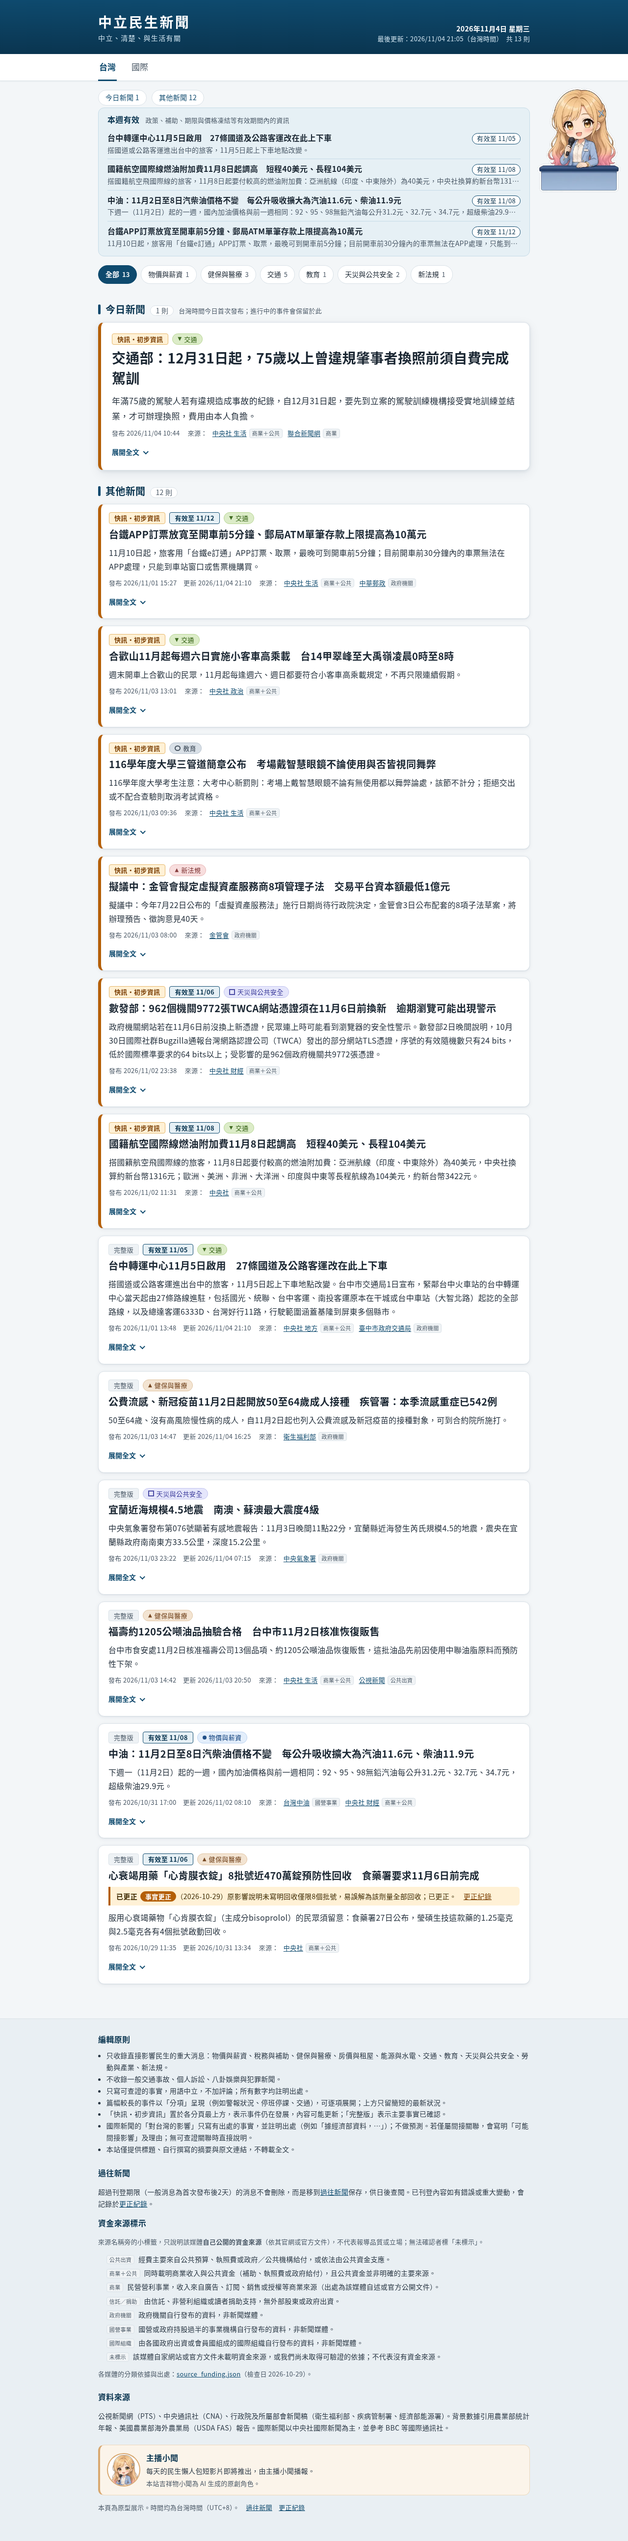
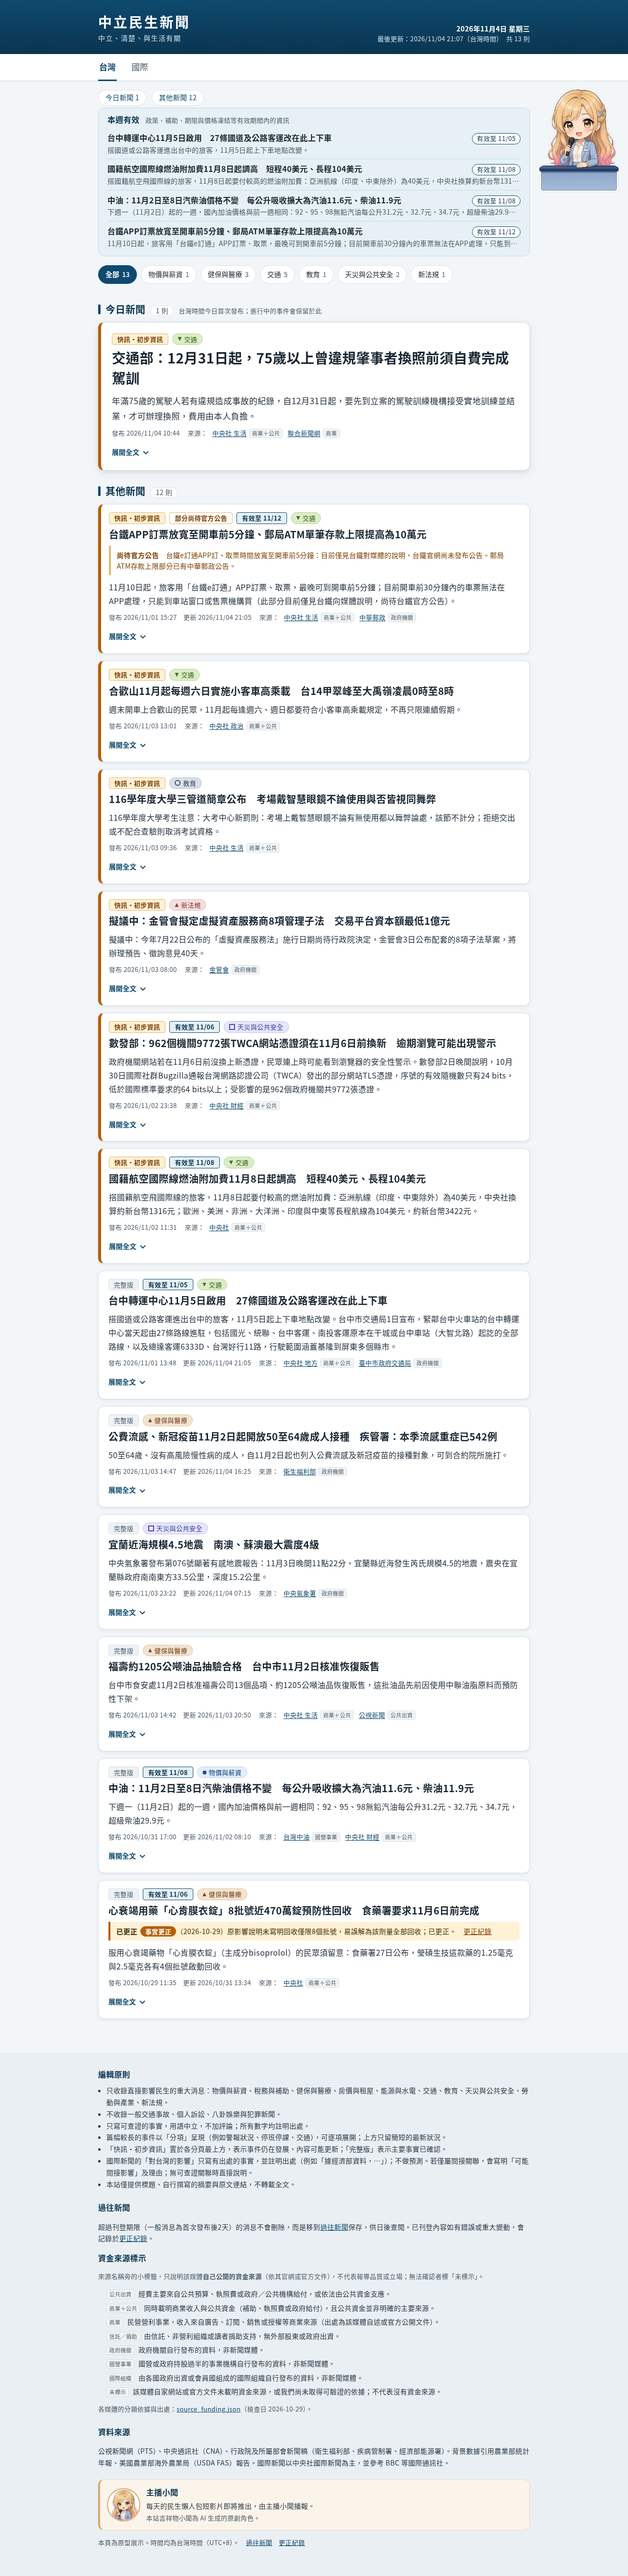
台鐵APP/郵局ATM快訊：標示台鐵部分尚待官方公告（pending_official），前端與規則支援部分確認

diff --git a/common.js b/common.js
@@ -183,8 +183,10 @@ window.NN = (function(){
   function pendingOfficial(i){
     const t = Date.parse(i.first_published || i.published || "");
     if(!t || Date.now() - t <= 3*24*3600*1000) return false;
+    if((i.pending_official || []).length) return true; // partially confirmed: listed parts still lack an official announcement
     return !(i.sources || []).some(s => s && isOfficialUrl(s.url));
   }
+  function pendingParts(i){ return (i.pending_official || []).filter(x => typeof x === "string" && x.trim()); }
 
   // Collapsible news card. Collapsed: badges, chip, title, 已更正 note, teaser, sources.
   // Expanded (button, aria-expanded): rest of summary, 影響誰/什麼/何時, 對台灣的影響, sections, full source list.
@@ -201,13 +203,14 @@ window.NN = (function(){
         <article class="${cls}" id="${esc(i.id)}">
           <div class="badges">
             <span class="badge ${breaking ? "prelim" : "full"}">${esc(i.status)}</span>
-            ${awaitOfficial ? `<span class="badge await">尚待官方公告</span>` : ""}
+            ${awaitOfficial ? `<span class="badge await">${pendingParts(i).length ? "部分尚待官方公告" : "尚待官方公告"}</span>` : ""}
             ${live ? `<span class="badge live">進行中</span>` : ""}
             ${i.valid_until && validLabel(i) ? `<span class="badge valid">${esc(validLabel(i))}</span>` : ""}
             ${o.showCat === false ? "" : chip(i.category)}
           </div>
           <h3>${esc(i.title)}</h3>
           ${i.corrected ? `<p class="corrected-note ${corrKind(i.corrected.type)}"><strong>已更正</strong>${corrTag(i.corrected.type)}（${esc(i.corrected.date)}）${esc(i.corrected.note)}　<a href="corrections.html">更正紀錄</a></p>` : ""}
+          ${awaitOfficial && pendingParts(i).length ? `<p class="await-note"><strong>尚待官方公告</strong>　${pendingParts(i).map(esc).join("；")}</p>` : ""}
           <p class="summary teaser">${esc(head)}</p>
           <div class="card-meta">
             <span class="when-line">發布 ${fmt(first(i))}${i.updated ? `　更新 ${fmt(i.updated)}` : ""}</span>

diff --git a/style.css b/style.css
@@ -294,3 +294,4 @@ body[data-mascot="pending"] .mascot-head,body[data-mascot="alert"] .mascot-head{
   .mascot-head{display:none}
 }
 body[data-mascot="pending"] .mascot-side,body[data-mascot="alert"] .mascot-side{display:none}
+.await-note{margin:0 0 10px;padding:8px 12px;border-left:4px solid #e6b768;background:#fff;border-radius:0 6px 6px 0;font-size:var(--fs-sm);line-height:1.6;color:var(--amber-ink)}

diff --git a/AUTOMATION.md b/AUTOMATION.md
@@ -399,6 +399,7 @@ CWA 警特報網頁以 JavaScript 載入內容，直接讀頁面看不到。`cwa
 9. **狀態標示**：
    - `快訊・初步資訊`：事件發展中、官方尚未完整說明、數字可能變動。會固定顯示於分頁最上方的「快訊」區。
      - 2026-11-04 起：`快訊・初步資訊` 自 `first_published` 起超過 3 天，且 `sources` 中沒有官方來源（網址網域為 `gov` / `gov.xx`，如 `*.gov.tw`）時，網站（`common.js`）會自動加上「尚待官方公告」標籤。**2026-11-04 起改為：每次更新在讓快訊取得或保留此標籤之前，必須先到相關官方網站（例如台鐵 `railway.gov.tw`、中華郵政 `post.gov.tw`、地方政府 `*.gov.tw` 的最新消息／新聞稿頁）搜尋該事件的官方公告**：找到且內容與項目事實相符 → 把官方網址加入 `sources`（只放實際開啟並核對過的網址，不得編造），若官方公告已確認主要事實（日期、數字、適用範圍）則升級為 `完整版`；官方公告只涵蓋項目的一部分（例如一則合併兩項新制，只找到其中一項的公告）→ 加入找到的來源，但維持 `快訊・初步資訊`，並在報告中寫明哪一部分仍未找到官方公告；搜尋後確實找不到 → 才讓網站顯示此標籤，並在報告中寫「已查：<網站>，未找到官方公告」。
+     - **部分確認的快訊（2026-11-04 起）**：只要有一部分沒有官方公告，**不得因為 `sources` 已有任一 `gov` 來源就讓標籤消失**。在項目加 `pending_official`（字串陣列，每項寫明哪一部分尚待哪個機關公告、哪一部分已確認），並在 `summary` 該句註明「（此部分…尚待官方公告）」。網站在超過 3 天後顯示「部分尚待官方公告」標籤，並在標題下方以「尚待官方公告」提示列出這些部分。之後找到該部分的官方公告 → 加入 `sources`、移除對應項目與摘要註記；`pending_official` 清空且主要事實皆已確認 → 刪除此欄位並升級為 `完整版`。
    - `完整版`：主要事實已確認。顯示於各分類區。
 10. **時間**：一律使用台灣時間（ISO 8601，`+08:00`）。`first_published`（＝`published`）為首次發布時間（取最早來源，**永不修改**，過期只看它），`updated` 為最後一次內容更新時間（僅供顯示）。
 11. **來源連結**：只放標題、自寫摘要與原文連結，不轉載全文、不使用原文圖片。只使用實際開啟過的網址。
